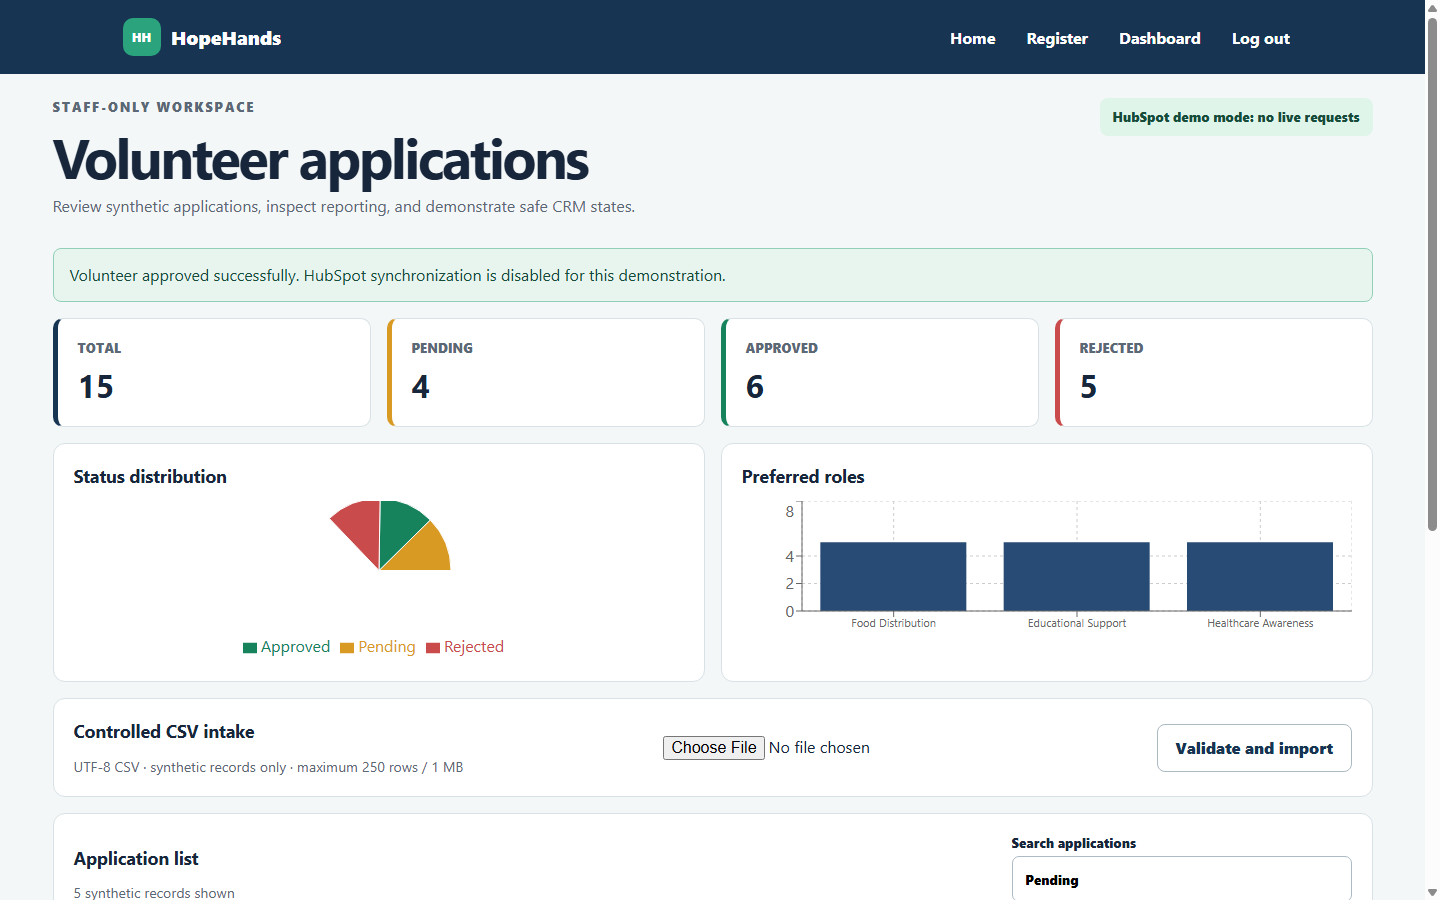
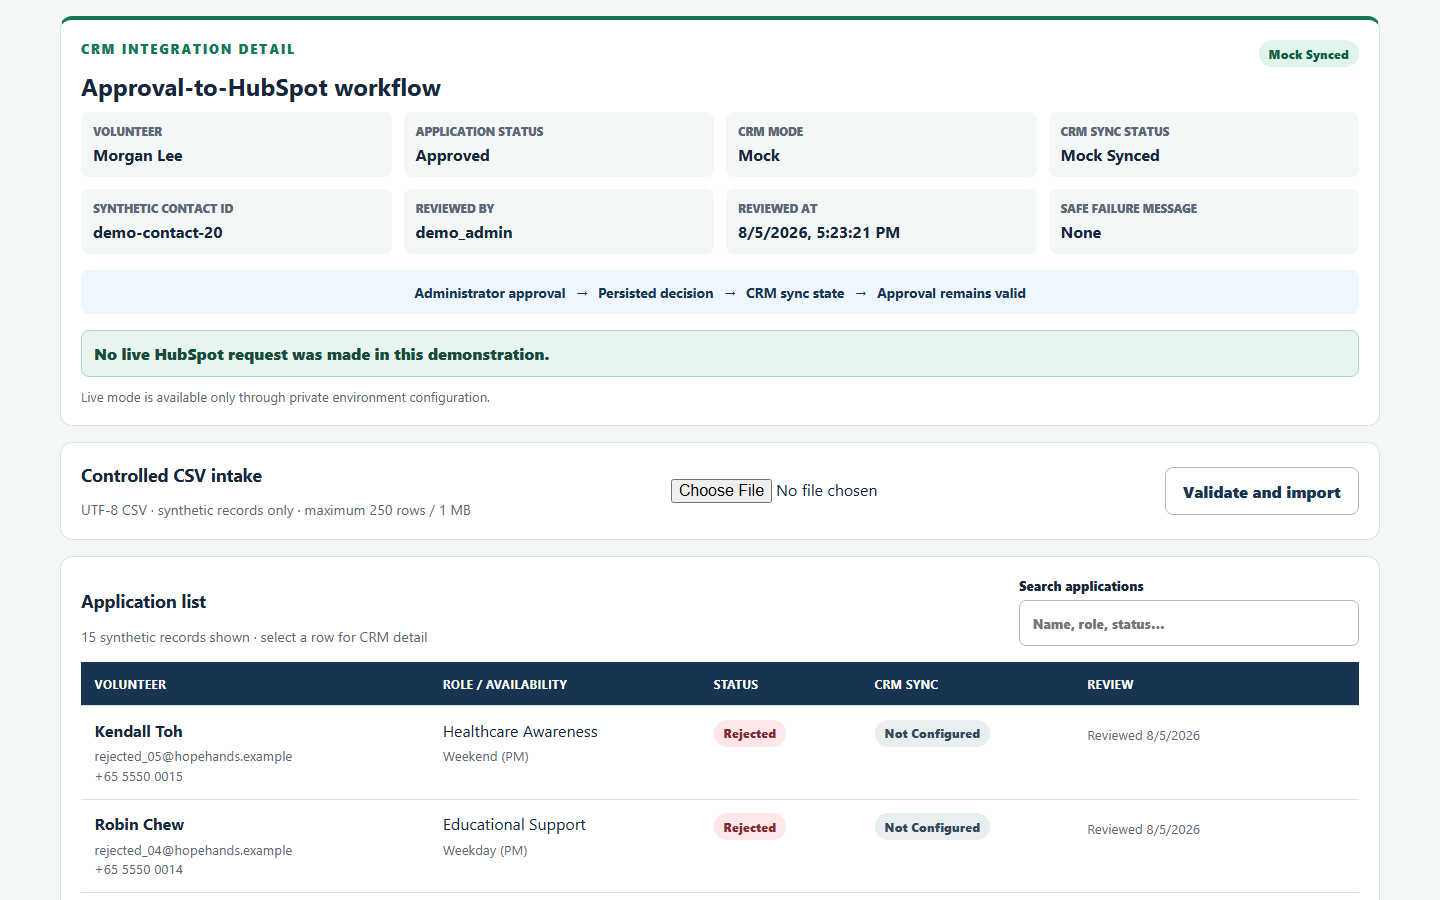
Strengthen HopeHands CRM case study

diff --git a/src/pages/HopeHandsCaseStudy.jsx b/src/pages/HopeHandsCaseStudy.jsx
@@ -41,7 +41,7 @@ function HopeHandsCaseStudy() {
               <a className="back-link" href="/#projects">← Back to all projects</a>
               <p className="eyebrow">Supporting full-stack project</p>
               <h1 id="case-title">HopeHands</h1>
-              <p className="case-hero__lead">A role-protected volunteer onboarding workflow with controlled CSV intake, administrative reporting, and failure-aware HubSpot synchronization.</p>
+              <p className="case-hero__lead">A role-protected volunteer onboarding and HubSpot CRM workflow with controlled CSV intake, administrative reporting, persisted synchronization states, and safe failure handling.</p>
               <div className="hero-actions"><a className="button button--primary" href={sourceUrl} target="_blank" rel="noreferrer">View GitHub source</a></div>
             </div>
             <aside className="case-status" aria-label="Project status">
@@ -74,8 +74,9 @@ function HopeHandsCaseStudy() {
           <div className="boundary-grid"><article><h3>Public visitor</h3><p>Can submit a validated application. Account and volunteer records are created together.</p></article><article><h3>Volunteer</h3><p>Uses JWT authentication and resolves only the profile linked to the current user.</p></article><article><h3>Administrator</h3><p>Staff checks protect listing, reporting, decisions, deletion, and CSV intake on the server.</p></article></div>
         </CaseSection>
 
-        <CaseSection id="hubspot" eyebrow="Failure-aware synchronization" title="Three truthful HubSpot modes" tinted>
-          <div className="boundary-grid"><article><h3>Disabled</h3><p>The default portfolio mode makes no network request and clearly reports that synchronization is disabled.</p></article><article><h3>Mock</h3><p>A deterministic synthetic contact result exercises the success path without contacting a provider.</p></article><article><h3>Live</h3><p>An optional token, timeout, bounded errors, and duplicate protection contain provider behavior. Approval remains recorded on failure.</p></article></div>
+        <CaseSection id="hubspot" eyebrow="Enterprise integration boundary" title="CRM Integration Design" introduction="Administrator approval persists the application decision before the HubSpot boundary runs, so CRM availability never controls the core workflow." tinted>
+          <div className="boundary-grid"><article><h3>Disabled mode</h3><p>No provider request is made, and the persisted state truthfully reports that CRM synchronization is not configured.</p></article><article><h3>Mock mode</h3><p>A deterministic successful synchronization stores a synthetic contact ID and demonstrates the complete approval-to-CRM path without network access.</p></article><article><h3>Live mode</h3><p>Private environment configuration enables the optional provider path with a timeout and bounded errors; no real account was used for this demonstration.</p></article></div>
+          <div className="case-copy-grid"><p><strong>Persisted state:</strong> Staff can inspect synchronization status, synthetic contact ID, reviewer, review time, and a safe failure message without seeing tokens or raw provider responses.</p><p><strong>Resilient behavior:</strong> CRM failure does not reverse approval, repeat approval is rejected, and already-synced records avoid duplicate synchronization.</p></div>
         </CaseSection>
 
         <CaseSection id="gallery" eyebrow="Visual walkthrough" title="Four approved states from the synthetic demonstration">

diff --git a/src/data/hopehands.js b/src/data/hopehands.js
@@ -6,13 +6,15 @@ export const hopeHandsMetrics = [
   ['43', 'backend tests'],
   ['3', 'volunteer roles'],
   ['3', 'HubSpot modes'],
+  ['Persisted', 'CRM sync state'],
+  ['Safe failure', 'approval remains valid'],
 ]
 
 export const hopeHandsScreenshots = [
   ['01-volunteer-registration.png', 'Validated public volunteer registration using synthetic demonstration data', 'HopeHands validated volunteer registration form with role, availability, password guidance, and synthetic-data notice'],
   ['02-volunteer-profile-status.png', 'Volunteer profile with clear application-status guidance', 'HopeHands volunteer profile showing a prominent Pending application status and next-step guidance'],
   ['03-admin-dashboard.png', 'Administrator dashboard with reporting, search, and controlled CSV intake', 'HopeHands staff dashboard showing summary cards, charts, CSV intake, search, and synthetic applications'],
-  ['04-approval-hubspot-state.png', 'Approval workflow with truthful disabled HubSpot synchronization state', 'HopeHands approval result showing successful core approval and disabled HubSpot synchronization'],
+  ['04-approval-hubspot-state.png', 'Administrator approval with persisted mock HubSpot synchronization', 'HopeHands administrator CRM panel showing an Approved synthetic volunteer, Mock mode, Mock Synced status, synthetic contact ID, reviewer, timestamp, and no-live-request disclosure'],
 ]
 
 export const hopeHandsStack = [

diff --git a/src/data/projects.js b/src/data/projects.js
@@ -21,7 +21,7 @@ const projects = [
   {
     title: 'HopeHands',
     type: 'Supporting project',
-    summary: 'A role-protected volunteer onboarding workflow with controlled CSV intake, administrative reporting, and failure-aware HubSpot synchronization.',
+    summary: 'A role-protected volunteer onboarding and HubSpot CRM workflow with controlled CSV intake, administrative reporting, persisted synchronization states, and safe failure handling.',
     technologies: ['React', 'Django REST Framework', 'MySQL', 'JWT', 'HubSpot'],
     visualLabel: 'Volunteer onboarding · resilient CRM boundary',
     caseStudyUrl: '/projects/hopehands/',
